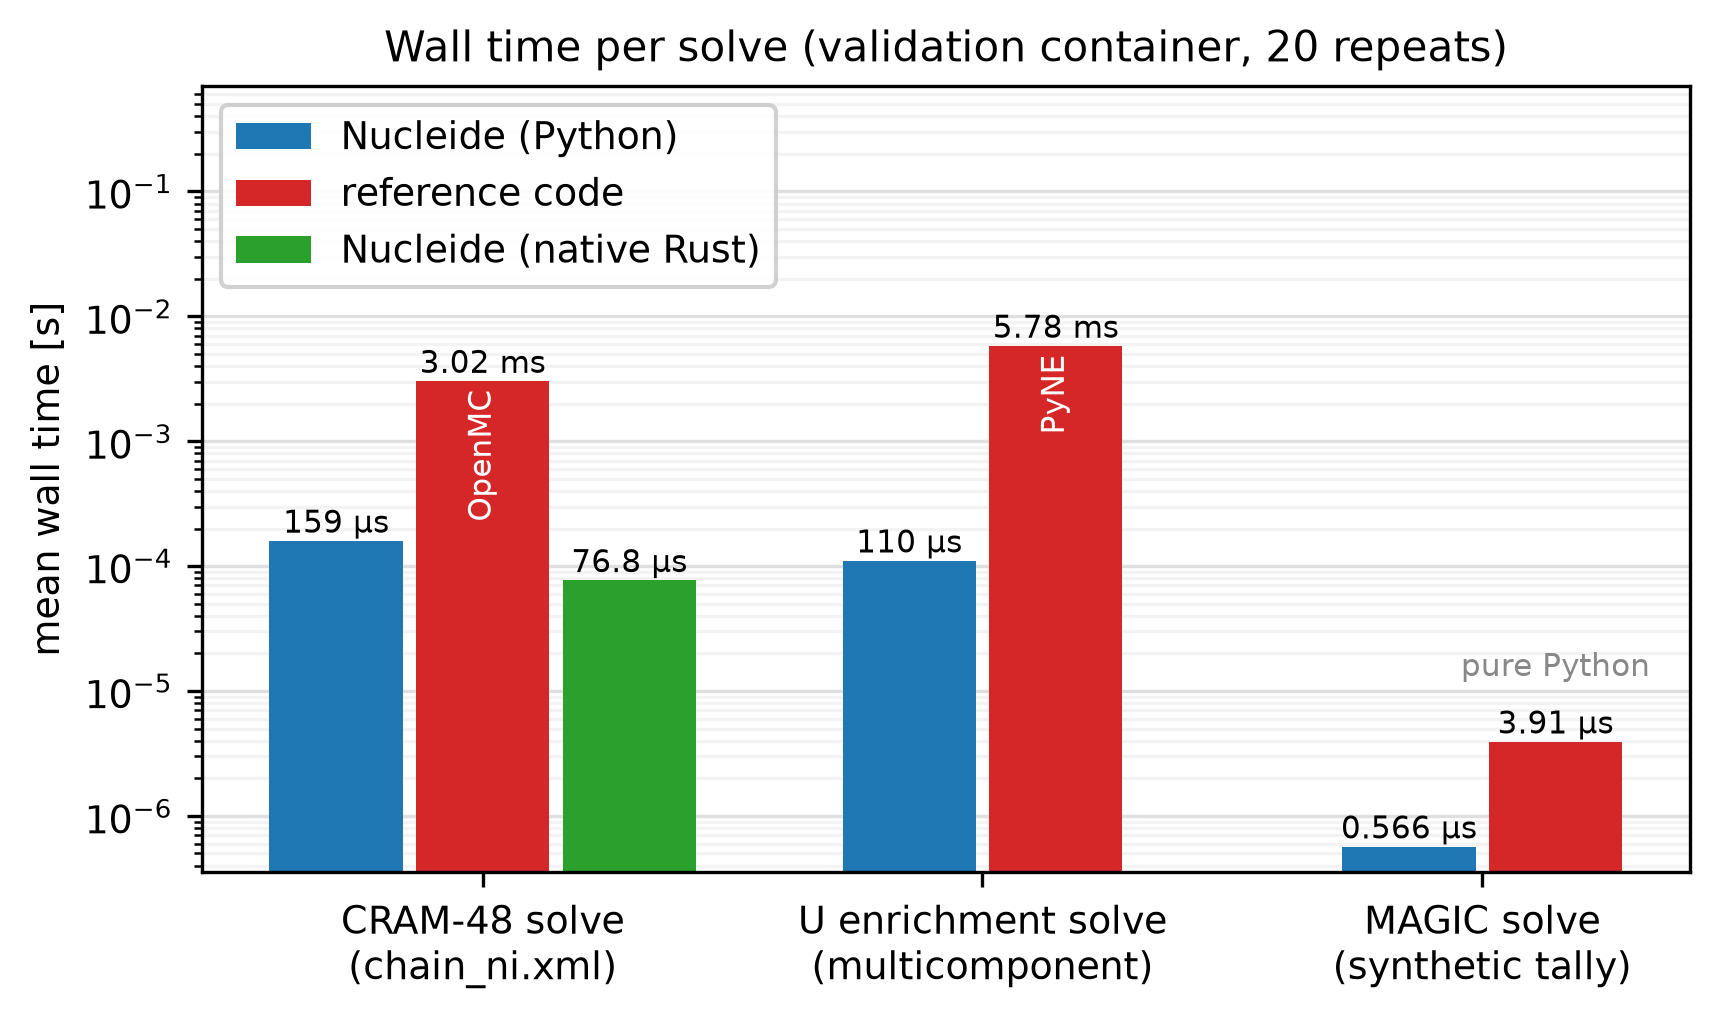
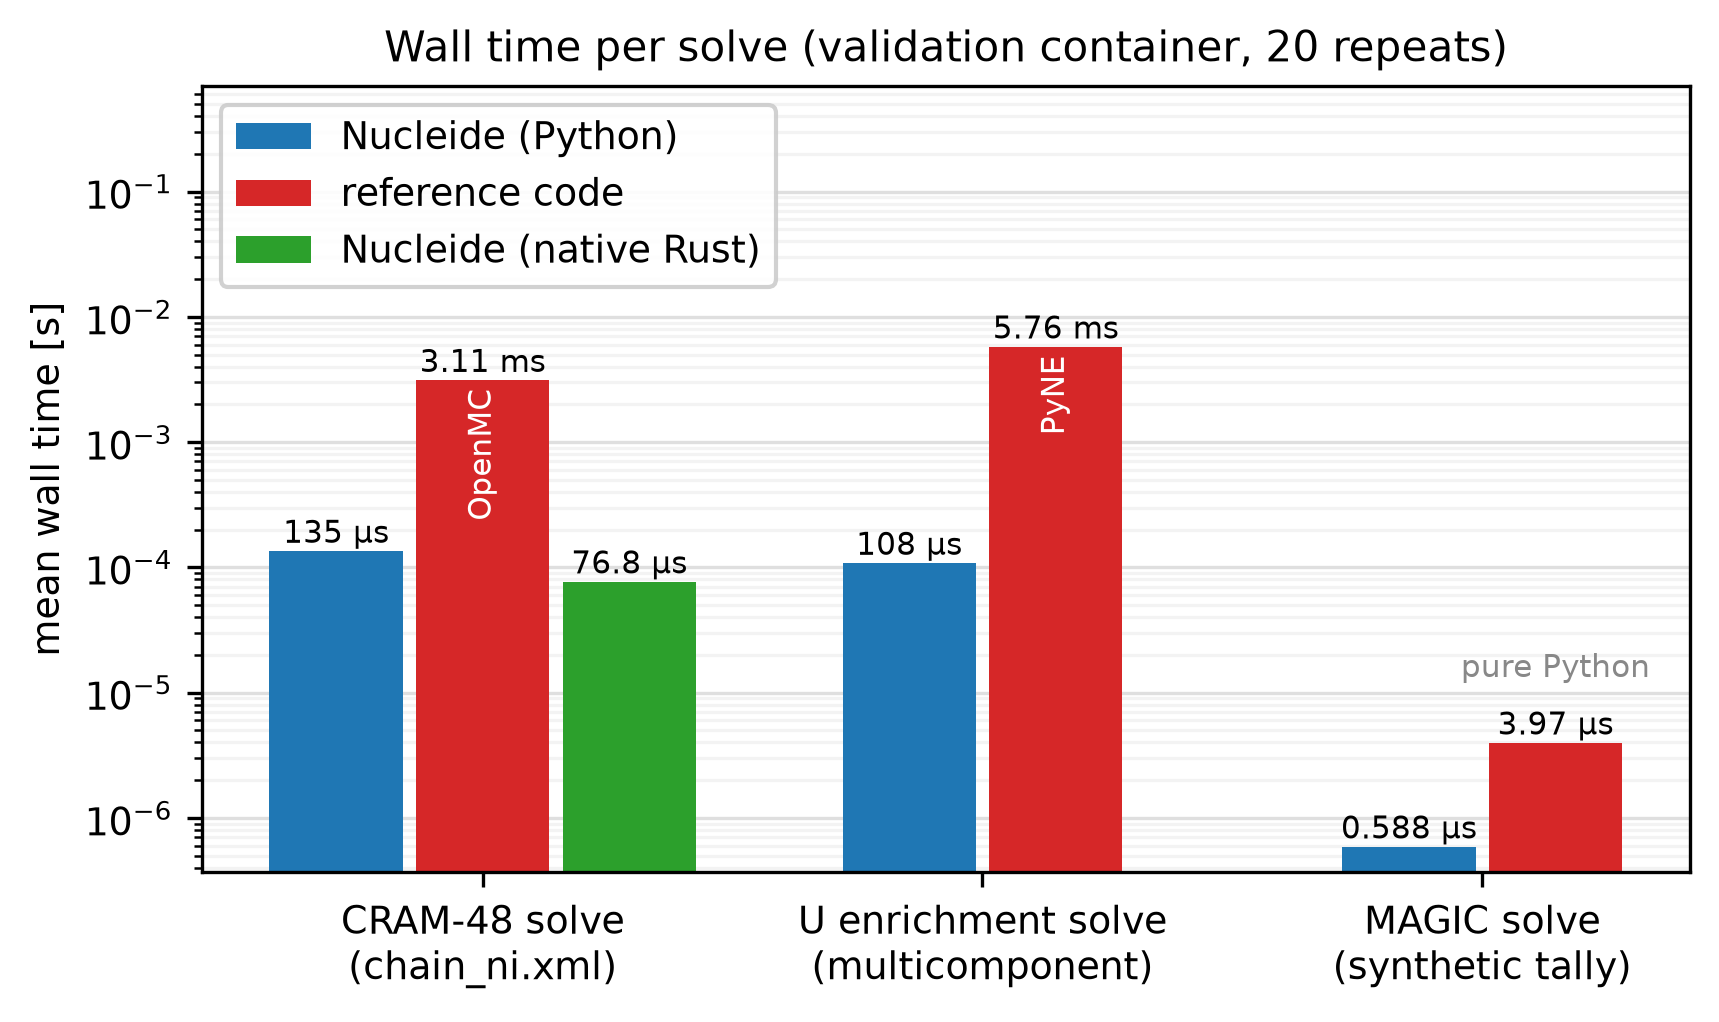
Add Serpent library option and 128-column MCNP packing
MCNP cards now pack greedily within the 128-column cap instead of using
a fixed 4-pairs-per-line layout, and Serpent cards emit
`{zaid}.{serpent_lib}` identifiers (default `03c`) with a new
configurable option threaded through the Rust, Python, and stub APIs.

diff --git a/bindings/python/src/lib.rs b/bindings/python/src/lib.rs
@@ -3355,7 +3355,7 @@ fn audit_material(comp: BTreeMap<String, f64>) -> PyResult<Vec<BTreeMap<String, 
 /// dialects that need one (falls back to none — Serpent/FLUKA/PARTISN error
 /// without it).
 #[pyfunction]
-#[pyo3(signature = (comp, name, density=None, mcnp_number=1, xs_suffix="80c", fluka_fid=1, partisn_zone=1))]
+#[pyo3(signature = (comp, name, density=None, mcnp_number=1, xs_suffix="80c", serpent_lib="03c", fluka_fid=1, partisn_zone=1))]
 #[allow(clippy::too_many_arguments)]
 fn emit_cards(
     comp: BTreeMap<String, f64>,
@@ -3363,6 +3363,7 @@ fn emit_cards(
     density: Option<f64>,
     mcnp_number: u32,
     xs_suffix: &str,
+    serpent_lib: &str,
     fluka_fid: u32,
     partisn_zone: u32,
 ) -> PyResult<BTreeMap<String, String>> {
@@ -3372,6 +3373,7 @@ fn emit_cards(
         density,
         mcnp_number,
         xs_suffix,
+        serpent_lib,
         fluka_fid,
         partisn_zone,
     )?;
@@ -3385,7 +3387,7 @@ fn emit_cards(
 /// Returns `[{code, mass_in, mass_out, rel_drift, dropped: [{nuclide, mass,
 /// reason}], reparsed}]`.
 #[pyfunction]
-#[pyo3(signature = (comp, name, density=None, mcnp_number=1, xs_suffix="80c", fluka_fid=1, partisn_zone=1))]
+#[pyo3(signature = (comp, name, density=None, mcnp_number=1, xs_suffix="80c", serpent_lib="03c", fluka_fid=1, partisn_zone=1))]
 #[allow(clippy::too_many_arguments)]
 fn emit_drift_table(
     comp: BTreeMap<String, f64>,
@@ -3393,6 +3395,7 @@ fn emit_drift_table(
     density: Option<f64>,
     mcnp_number: u32,
     xs_suffix: &str,
+    serpent_lib: &str,
     fluka_fid: u32,
     partisn_zone: u32,
 ) -> PyResult<Vec<BTreeMap<String, Py<PyAny>>>> {
@@ -3402,6 +3405,7 @@ fn emit_drift_table(
         density,
         mcnp_number,
         xs_suffix,
+        serpent_lib,
         fluka_fid,
         partisn_zone,
     )?;
@@ -3480,6 +3484,7 @@ fn emit_drift_inner(
     density: Option<f64>,
     mcnp_number: u32,
     xs_suffix: &str,
+    serpent_lib: &str,
     fluka_fid: u32,
     partisn_zone: u32,
 ) -> PyResult<(Vec<nucleide_emit::Emitted>, nucleide_emit::DriftTable)> {
@@ -3488,6 +3493,7 @@ fn emit_drift_inner(
     let mut opts = nucleide_emit::EmitOptions::new(name);
     opts.mcnp_number = mcnp_number;
     opts.xs_suffix = xs_suffix.to_string();
+    opts.serpent_lib = serpent_lib.to_string();
     opts.fluka_fid = fluka_fid;
     opts.partisn_zone = partisn_zone;
     nucleide_emit::emit_drift(&mat, &opts).map_err(|e| PyValueError::new_err(e.to_string()))

diff --git a/crates/emit/src/mcnp.rs b/crates/emit/src/mcnp.rs
@@ -11,8 +11,10 @@ use nucleide_nuclei::{dialects::to_zaid, NuclideId};
 
 use crate::{Code, EmitOptions, Emitted, Error, Result};
 
-/// Pairs of `(zaid, fraction)` per card line.
-const PAIRS_PER_LINE: usize = 4;
+/// Hard MCNP line-length cap: 128 columns for MCNP 6.2+ (80 for older
+/// releases), per LA-UR-18-20808 §2.6.2. Lines are packed greedily and never
+/// exceed this width.
+const MAX_LINE_LEN: usize = 128;
 
 /// Emit `mat` as an MCNP material card.
 pub fn emit_mcnp(mat: &Material, opts: &EmitOptions) -> Result<Emitted> {
@@ -27,13 +29,15 @@ pub fn emit_mcnp(mat: &Material, opts: &EmitOptions) -> Result<Emitted> {
     }
 
     let mut text = format!("m{}", opts.mcnp_number);
-    for (i, chunk) in pairs.chunks(PAIRS_PER_LINE).enumerate() {
-        if i > 0 {
+    let mut line_len = text.len();
+    for (zaid, frac) in &pairs {
+        let piece = format!(" {zaid}.{} {frac}", opts.xs_suffix);
+        if line_len + piece.len() > MAX_LINE_LEN {
             text.push_str("\n     ");
+            line_len = 5;
         }
-        for (zaid, frac) in chunk {
-            text.push_str(&format!(" {zaid}.{} {frac}", opts.xs_suffix));
-        }
+        text.push_str(&piece);
+        line_len += piece.len();
     }
     text.push('\n');
 
@@ -115,6 +119,27 @@ mod tests {
         assert!(out.reparsed);
         assert!(out.dropped.is_empty());
         assert!((out.mass_out() - 200.0).abs() < 1e-12);
+    }
+
+    #[test]
+    fn mcnp_long_cards_wrap_within_128_columns() {
+        let mut mat = Material::new();
+        for (i, name) in [
+            "U235", "U238", "Pu239", "Pu240", "Pu241", "O16", "H1", "B10",
+        ]
+        .iter()
+        .enumerate()
+        {
+            mat.add_nuclide(NuclideId::from_name(name).unwrap(), (i + 1) as f64);
+        }
+        let opts = EmitOptions::new("many");
+        let out = emit_mcnp(&mat, &opts).unwrap();
+        assert!(out.text.lines().count() > 1);
+        for line in out.text.lines() {
+            assert!(line.len() <= 128, "{line:?}");
+        }
+        assert!(out.reparsed);
+        assert!((out.mass_out() - 36.0).abs() < 1e-12);
     }
 
     #[test]

diff --git a/crates/emit/src/serpent.rs b/crates/emit/src/serpent.rs
@@ -2,12 +2,15 @@
 //!
 //! Mass density is emitted negative and mass fractions are emitted negative,
 //! per the Serpent convention (negative `dens` selects g/cm³, negative
-//! fractions select mass fractions). One nuclide per line. Serpent has no
-//! material reader in this workspace, so drift is analytic
+//! fractions select mass fractions; Serpent normalises automatically).
+//! Nuclides use `{zaid}.{lib}` identifiers (e.g. `92235.03c`), matching the
+//! official examples — bare names do not resolve against an `acelib` table.
+//! One nuclide per line; Serpent cards need no continuation markers. Serpent
+//! has no material reader in this workspace, so drift is analytic
 //! ([`Emitted::reparsed`] is always false).
 
 use nucleide_material::Material;
-use nucleide_nuclei::dialects;
+use nucleide_nuclei::dialects::to_zaid;
 
 use crate::{Code, EmitOptions, Emitted, Error, Result};
 
@@ -18,7 +21,7 @@ pub fn emit_serpent(mat: &Material, opts: &EmitOptions) -> Result<Emitted> {
     let mut accounted = Vec::with_capacity(fracs.len());
     let mut text = format!("mat {} {}\n", opts.name, -density);
     for (id, w) in &fracs {
-        text.push_str(&format!("  {} {}\n", dialects::serpent(*id), -w));
+        text.push_str(&format!("  {}.{} {}\n", to_zaid(*id), opts.serpent_lib, -w));
         accounted.push((*id, mat.comp.get(id).copied().unwrap_or(0.0)));
     }
     Ok(Emitted {
@@ -43,8 +46,8 @@ mod tests {
         let opts = EmitOptions::new("leu").with_density(10.0);
         let out = emit_serpent(&mat, &opts).unwrap();
         assert!(out.text.starts_with("mat leu -10\n"));
-        assert!(out.text.contains("U-235 -0.05"));
-        assert!(out.text.contains("U-238 -0.95"));
+        assert!(out.text.contains("92235.03c -0.05"));
+        assert!(out.text.contains("92238.03c -0.95"));
         assert!(!out.reparsed);
         assert!((out.mass_out() - 100.0).abs() < 1e-12);
     }

diff --git a/crates/emit/src/lib.rs b/crates/emit/src/lib.rs
@@ -87,6 +87,8 @@ pub struct EmitOptions {
     /// Mass density [g/cm³] for dialects that need one (Serpent, FLUKA,
     /// PARTISN). Falls back to [`Material::density`]; errors when absent.
     pub density: Option<f64>,
+    /// Serpent cross-section library suffix (`03c` renders `92235.03c`).
+    pub serpent_lib: String,
     /// FLUKA material index number.
     pub fluka_fid: u32,
     /// PARTISN zone id for the single emitted zone.
@@ -101,6 +103,7 @@ impl EmitOptions {
             mcnp_number: 1,
             xs_suffix: "80c".to_string(),
             density: None,
+            serpent_lib: "03c".to_string(),
             fluka_fid: 1,
             partisn_zone: 1,
         }

diff --git a/tests/test_emit.py b/tests/test_emit.py
@@ -14,7 +14,7 @@ def test_emit_cards_five_codes() -> None:
     assert cards["MCNP"].startswith("m1 ")
     assert "92235.80c" in cards["MCNP"]
     assert cards["Serpent"].startswith("mat umetal -19.1\n")
-    assert "U-235 -0.05" in cards["Serpent"]
+    assert "92235.03c -0.05" in cards["Serpent"]
     assert "COMPOUND" in cards["FLUKA"]
     assert "235-U" in cards["FLUKA"]
     assert cards["ALARA"].startswith("mixture umetal\n")

diff --git a/docs/tutorials/python/emit-cards.md b/docs/tutorials/python/emit-cards.md
@@ -1,0 +1,51 @@
+---
+title: Emit Code Cards
+sidebar:
+  order: 7
+---
+
+Nucleide renders one material through five legacy transport-code dialects —
+MCNP, Serpent, FLUKA, ALARA, PARTISN — and reports how much mass survives
+each translation. This tutorial shows the Python API; equivalent Rust types
+live in the `emit` crate.
+
+## Cards for all five codes
+
+```python
+from nucleide import emit
+
+comp = {"U235": 5.0, "U238": 95.0}
+cards = emit.emit_cards(comp, "umetal", density=19.1)
+print(sorted(cards))
+print(cards["MCNP"])
+```
+
+The MCNP card uses mass fractions with a configurable library suffix, the
+Serpent card uses `{zaid}.{lib}` ids, and long MCNP cards wrap within the
+128-column limit:
+
+```python
+print(cards["Serpent"])
+print(cards["ALARA"])
+```
+
+## Mass-drift report
+
+`emit_drift_table` returns one row per dialect with the represented mass,
+the relative drift, dropped nuclides with reasons, and whether the text was
+re-parse verified (MCNP and ALARA only):
+
+```python
+rows = emit.emit_drift_table(comp, "umetal", density=19.1)
+for row in rows:
+    print(row["code"], row["rel_drift"], row["dropped"], row["reparsed"])
+```
+
+Nuclides a dialect cannot represent — O16 has no FLUKA isotope-table entry —
+show up as reported drift instead of silent loss:
+
+```python
+rows = emit.emit_drift_table({"U235": 1.0, "O16": 2.0}, "uox", density=10.0)
+fluka = next(r for r in rows if r["code"] == "FLUKA")
+print(fluka["mass_out"], fluka["dropped"])
+```

diff --git a/validation/results.md b/validation/results.md
@@ -568,9 +568,9 @@ step** on pre-built systems/matrices.
 
 | Operation                                             | Nucleide       | Reference code                              |
 |-------------------------------------------------------|----------------|---------------------------------------------|
-| CRAM-48 solve (`chain_ni.xml`)                        | 1.587412e-04 s | OpenMC CRAM48: 3.021879e-03 s               |
-| Default uranium enrichment solve                      | 1.102348e-04 s | PyNE multicomponent: 5.779270e-03 s         |
-| MAGIC total-mode solve (synthetic tally)              | 5.657496e-07 s | PyNE-equivalent pure Python: 3.914950e-06 s |
+| CRAM-48 solve (`chain_ni.xml`)                        | 1.346853e-04 s | OpenMC CRAM48: 3.114705e-03 s               |
+| Default uranium enrichment solve                      | 1.080135e-04 s | PyNE multicomponent: 5.759992e-03 s         |
+| MAGIC total-mode solve (synthetic tally)              | 5.875504e-07 s | PyNE-equivalent pure Python: 3.970350e-06 s |
 | Native Rust CRAM-48 solve (Criterion, no Python)      | 7.675881e-05 s | —                                           |
 | Native Rust deplete end-to-end (Criterion, no Python) | 7.858313e-05 s | —                                           |
 

diff --git a/CHANGELOG.md b/CHANGELOG.md
@@ -17,10 +17,11 @@ workspace crates from tags.
 
 - `nucleide-emit` single-material emission (`crates/emit/`): one `Material`
   renders through five code dialects — MCNP `m` cards (mass fractions,
-  configurable xs suffix), Serpent `mat` cards, FLUKA `COMPOUND` cards,
-  ALARA `mixture` blocks, single-zone PARTISN decks — plus a mass-drift
-  report (`emit_drift`) with per-nuclide drop reasons and re-parse
-  verification where readers exist (MCNP, ALARA).
+  configurable xs suffix, 128-column packing), Serpent `mat` cards
+  (`{zaid}.{lib}` ids), FLUKA `COMPOUND` cards, ALARA `mixture` blocks,
+  single-zone PARTISN decks — plus a mass-drift report (`emit_drift`) with
+  per-nuclide drop reasons and re-parse verification where readers exist
+  (MCNP, ALARA).
 - Python API: `nucleide.emit.emit_cards` / `emit_drift_table` thin wrappers
   over the new crate.
 

diff --git a/crates/emit/AGENTS.md b/crates/emit/AGENTS.md
@@ -17,9 +17,11 @@ Owns `crates/emit/src/` (one module per dialect plus shared
 
 - Dialect conventions (deviations are bugs, not style):
   - MCNP: `m<number>` card, `{zaid}.{xs_suffix}` ids (default `80c`),
-    negative mass fractions, 4 pairs per line, 5-blank continuation indent.
-  - Serpent: `mat <name> <-density>` with negative per-nuclide mass
-    fractions, one nuclide per line.
+    negative mass fractions, greedy packing within the 128-column cap
+    (LA-UR-18-20808 §2.6.2), 5-blank continuation indent.
+  - Serpent: `mat <name> <-density>` with `{zaid}.{lib}` ids (default
+    `03c`) and negative per-nuclide mass fractions, one nuclide per line
+    (no continuation markers needed).
   - FLUKA: whole material as one `COMPOUND` card with mass fractions via
     existing `compound_str`; nuclides without a table name/mass are
     `dropped`, never fatal.

diff --git a/docs/README.md b/docs/README.md
@@ -33,6 +33,7 @@ license.
 | [Enrichment cascade](tutorials/python/enrichment-cascade.md) | Set up and solve a multicomponent enrichment cascade |
 | [Activation analysis](tutorials/python/activation-analysis.md) | Read ALARA, FISPACT-II, and ORIGEN files and assemble an R2S workflow |
 | [Deterministic I/O](tutorials/python/deterministic-io.md) | Read ISOTXS and flux files and write PARTISN decks |
+| [Emit code cards](tutorials/python/emit-cards.md) | Render one material to MCNP, Serpent, FLUKA, ALARA, and PARTISN cards |
 | [Interactive tutorials](tutorials/interactive/index.mdx) | Run Nucleide in the browser through the WASM build |
 | [Interactive — nuclides](tutorials/interactive/nuclides.mdx) | Nuclide identifiers and nuclear data |
 | [Interactive — materials](tutorials/interactive/materials.mdx) | Formulas, fractions, mixing, and XML export |

diff --git a/docs/tutorials/python/index.md b/docs/tutorials/python/index.md
@@ -19,3 +19,5 @@ and assumes you have already installed the project (see
    and ORIGEN files and assemble an R2S workflow.
 6. [Deterministic I/O](deterministic-io.md) — read ISOTXS and flux files
    and write PARTISN decks.
+7. [Emit code cards](emit-cards.md) — render one material to MCNP, Serpent,
+   FLUKA, ALARA, and PARTISN cards with a mass-drift report.
